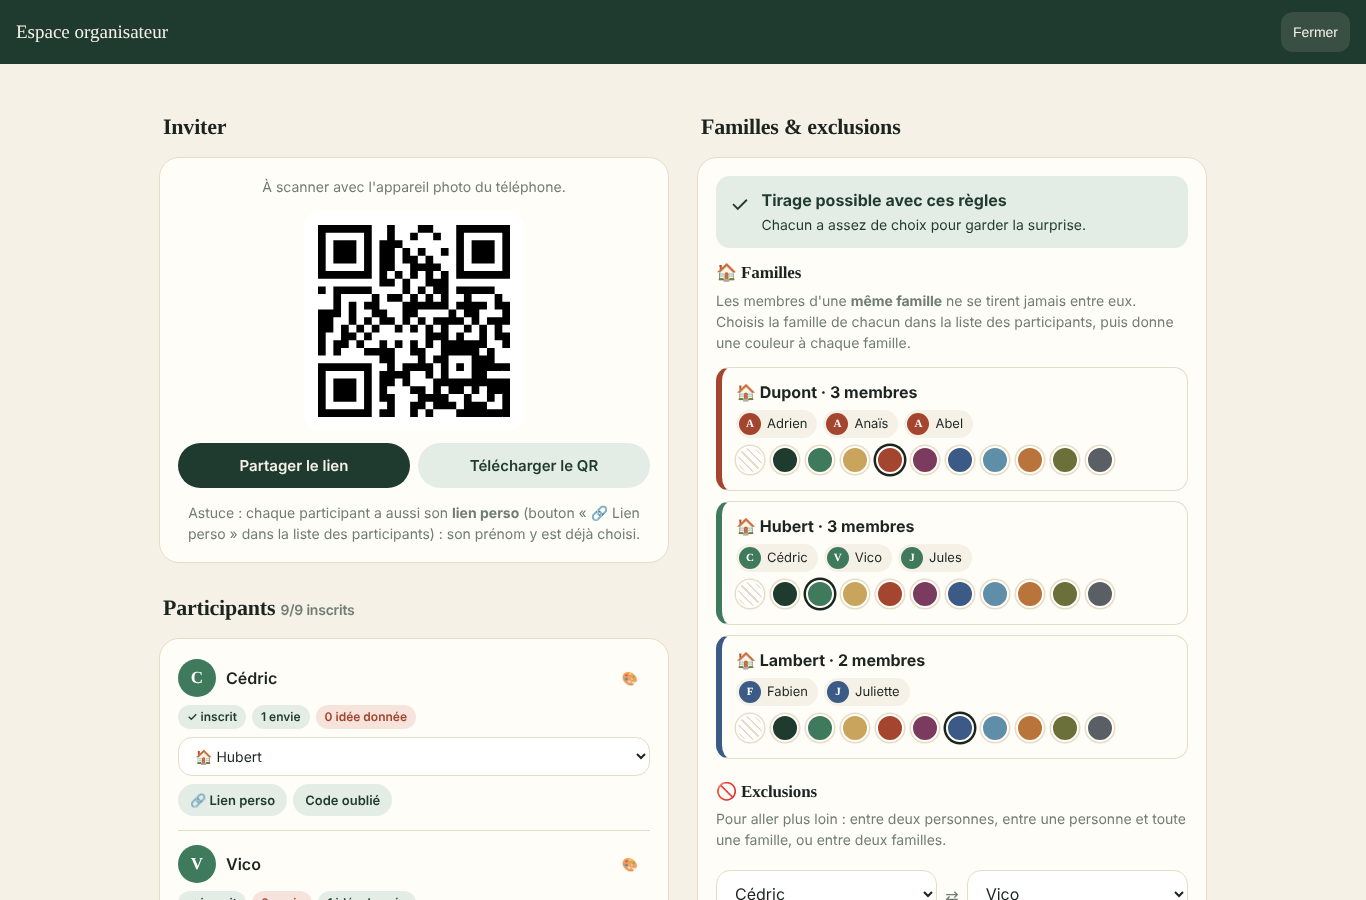
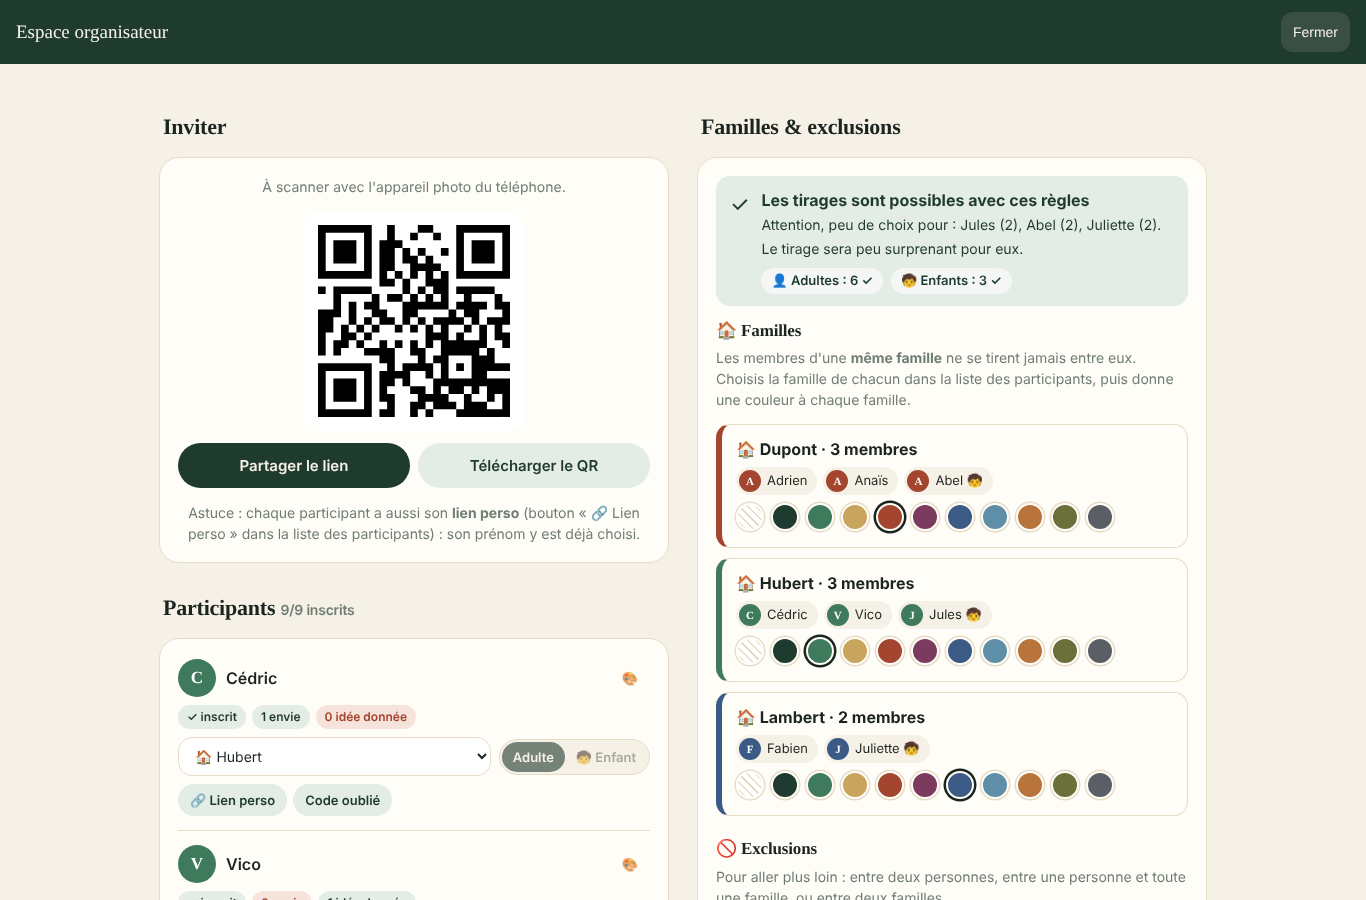
Deux tirages séparés : adultes entre eux, enfants entre eux
- Catégorie adulte/enfant par participant (sélecteur dans l'espace organisateur)
- Un tirage par groupe, avec les mêmes familles et exclusions
- Vérification des règles par groupe (adultes / enfants)

Claude-Session: https://claude.ai/code/session_01XRzXVgtsTn9RLvmfNkSwpe

Changed region(s): [[0.5227, 0.2178, 0.8917, 1.0], [0.369, 0.8089, 0.4612, 0.8711]]

diff --git a/index.html b/index.html
@@ -138,6 +138,14 @@
   .pill.warn { background: var(--danger-soft); color: var(--danger); }
   .person .grid { display: grid; grid-template-columns: 1fr 1fr; gap: 8px; }
   .person select { margin: 0; padding: 9px 12px; font-size: 14px; }
+  .person .line { display: flex; gap: 8px; align-items: center; }
+  .person .line select { flex: 1; min-width: 0; }
+  .seg { display: inline-flex; background: var(--cream); border: 1.5px solid var(--line); border-radius: 999px; padding: 2px; flex: 0 0 auto; }
+  .seg button { border: 0; background: transparent; border-radius: 999px; padding: 7px 11px; font: 600 13px var(--sans); color: var(--muted); cursor: pointer; }
+  .seg button.on { background: var(--fir); color: var(--cream); }
+  .seg button:disabled { cursor: not-allowed; opacity: .6; }
+  .groups { display: flex; gap: 8px; margin-top: 8px; flex-wrap: wrap; }
+  .groups span { background: rgba(255,255,255,.6); border-radius: 999px; padding: 3px 10px; font-size: 13px; font-weight: 600; }
   .person .actions { display: flex; gap: 6px; flex-wrap: wrap; margin-top: 8px; }
   .qr { display: grid; place-items: center; background: #fff; border-radius: 16px; padding: 14px; margin: 6px auto 12px; width: 220px; }
   .qr svg { width: 192px; height: 192px; display: block; }
@@ -394,6 +402,7 @@
           <label for="newName">Ajouter un participant</label>
           <input id="newName" placeholder="Prénom" maxlength="40">
           <input id="newFamily" placeholder="Famille (facultatif)" list="familyList" maxlength="40">
+          <label class="switch" style="margin:0 0 10px"><input id="newChild" type="checkbox"> C'est un enfant (tirage des enfants)</label>
           <button class="btn soft block">Ajouter</button>
         </form>
         <datalist id="familyList"></datalist>
@@ -893,6 +902,14 @@ function familySelect(p, families) {
   };
   return s;
 }
+function ageToggle(p, drawn) {
+  const seg = el('div', { className: 'seg', title: drawn ? 'Annule le tirage pour changer' : 'Tirage des adultes ou des enfants' });
+  [['adulte', 'Adulte'], ['enfant', '🧒 Enfant']].forEach(([v, label]) => {
+    seg.append(el('button', { type: 'button', className: p.age === v ? 'on' : '', textContent: label, disabled: drawn,
+      onclick: () => { if (p.age !== v) adminCall(null, 'adminSetAge', p.name, v); } }));
+  });
+  return seg;
+}
 function renderAdmin(st) {
   adminSt = st;
   renderQR();
@@ -929,7 +946,7 @@ function renderAdmin(st) {
         el('button', { className: 'btn ghost small', textContent: '🎨', title: 'Couleur', onclick: () => swWrap.classList.toggle('hidden') })]),
       meta,
       swWrap,
-      familySelect(p, st.families),
+      el('div', { className: 'line' }, [familySelect(p, st.families), ageToggle(p, st.drawn)]),
       actions,
     ]));
   });
@@ -944,7 +961,7 @@ function renderAdmin(st) {
     const members = st.participants.filter(p => p.family === f);
     const card = el('div', { className: 'fam-card' }, [
       el('b', { textContent: '🏠 ' + f + ' · ' + members.length + ' membre' + (members.length > 1 ? 's' : '') }),
-      el('div', { className: 'members' }, members.map(m => el('span', { className: 'mchip' }, [avatar(m.name, m.color || color), document.createTextNode(m.name)]))),
+      el('div', { className: 'members' }, members.map(m => el('span', { className: 'mchip' }, [avatar(m.name, m.color || color), document.createTextNode(m.name + (m.age === 'enfant' ? ' 🧒' : ''))]))),
       swatches(color, c => adminCall(null, 'adminSetColor', 'family', f, c), 'Sans couleur'),
     ]);
     if (color) card.style.borderLeftColor = color;
@@ -956,10 +973,14 @@ function renderAdmin(st) {
   rs.className = 'rules ' + (st.rules.possible ? 'ok' : 'ko');
   const tight = Object.keys(st.rules.choices).filter(n => st.rules.choices[n] <= 2);
   rs.append(el('span', { style: 'font-size:22px', textContent: st.rules.possible ? '✓' : '⚠' }), el('div', {}, [
-    el('b', { textContent: st.rules.possible ? 'Tirage possible avec ces règles' : (st.participants.length < 3 ? 'Pas encore assez de participants' : 'Tirage impossible avec ces règles') }),
+    el('b', { textContent: st.rules.possible ? 'Les tirages sont possibles avec ces règles' : 'Tirage impossible pour l\'instant' }),
     el('span', { style: 'font-size:14px', textContent: st.rules.possible
       ? (tight.length ? 'Attention, peu de choix pour : ' + tight.map(n => n + ' (' + st.rules.choices[n] + ')').join(', ') + '. Le tirage sera peu surprenant pour eux.' : 'Chacun a assez de choix pour garder la surprise.')
       : st.rules.reason }),
+    el('div', { className: 'groups' }, [['adulte', 'Adultes'], ['enfant', 'Enfants']].map(([k, label]) => {
+      const g = st.rules.groups[k];
+      return el('span', { textContent: (k === 'enfant' ? '🧒 ' : '👤 ') + label + ' : ' + g.count + (g.count === 0 ? ' · pas de tirage' : (g.possible ? ' ✓' : ' ⚠')) });
+    })),
   ]));
 
   // Exclusions
@@ -993,19 +1014,19 @@ function renderAdmin(st) {
   ])])));
 
   // Tirage
-  const all = st.participants.length >= 3 && reg === st.participants.length;
+  const all = st.participants.length >= 2 && reg === st.participants.length;
   $('drawBtn').classList.toggle('hidden', st.drawn);
   $('drawBtn').disabled = !all || !st.rules.possible;
   $('resetDrawBtn').classList.toggle('hidden', !st.drawn);
   $('drawStatus').textContent = st.drawn
     ? '✓ Le tirage a été fait et chacun a été prévenu dans l\'app. Toi non plus, tu ne connais pas les résultats !'
     : !st.rules.possible ? '⚠ Les règles actuelles rendent le tirage impossible : modifie les familles ou exclusions.'
-    : all ? 'Tout le monde est inscrit : tu peux lancer le tirage. Les familles et exclusions seront respectées.'
-          : 'Le tirage sera possible quand tous les participants (3 minimum) auront créé leur compte.';
+    : all ? 'Tout le monde est inscrit : tu peux lancer le tirage. Les adultes tirent un adulte, les enfants un enfant, et les familles et exclusions sont respectées.'
+          : 'Le tirage sera possible quand tous les participants auront créé leur compte.';
 }
 function adminAdd(e) {
   e.preventDefault();
-  adminCall(e.submitter, 'adminAddParticipant', $('newName').value, $('newFamily').value)
+  adminCall(e.submitter, 'adminAddParticipant', $('newName').value, $('newFamily').value, $('newChild').checked ? 'enfant' : 'adulte')
     .then(st => { if (st) { $('newName').value = ''; $('newName').focus(); } });
 }
 function adminAddEx() { adminCall(null, 'adminAddExclusion', $('exA').value, $('exB').value); }
@@ -1026,7 +1047,7 @@ function broadcastWhatsApp() {
   window.open('https://wa.me/?text=' + encodeURIComponent((s ? '*' + s + '*\n' : '') + m + '\n\n' + APP_URL), '_blank', 'noopener');
 }
 function adminDraw() {
-  if (confirm('Lancer le tirage au sort ? Chacun sera prévenu dans l\'app.'))
+  if (confirm('Lancer les tirages au sort (adultes et enfants) ? Chacun sera prévenu dans l\'app.'))
     adminCall($('drawBtn'), 'adminDraw').then(st => st && toast('🎉 Tirage effectué !'));
 }
 function adminResetDraw() {

diff --git a/test/run-tests.js b/test/run-tests.js
@@ -9,7 +9,7 @@ vm.createContext(ctx);
 vm.runInContext(fs.readFileSync(path.join(__dirname, 'gas-mock.js'), 'utf8'), ctx);
 vm.runInContext(fs.readFileSync(path.join(__dirname, '..', 'apps-script', 'Code.gs'), 'utf8') +
   '\nthis.__api = {getPublicState,register,login,logout,getDashboard,addIdea,deleteIdea,markNotificationsRead,adminState,' +
-  'adminAddParticipant,adminRemoveParticipant,adminResetAccount,adminSetFamily,adminSetColor,adminCheckRules,adminAddExclusion,' +
+  'adminAddParticipant,adminRemoveParticipant,adminResetAccount,adminSetFamily,adminSetAge,adminSetColor,adminCheckRules,adminAddExclusion,' +
   'adminRemoveExclusion,adminSaveSettings,adminBroadcast,adminDraw,adminResetDraw,computeDraw_,banned_,doPost,doGet};', ctx);
 const A = ctx.__api;
 const props = ctx.PropertiesService.getScriptProperties();
@@ -189,5 +189,56 @@ A.adminResetDraw(C);
 assert.equal(A.getDashboard(tok.Alice).target, null);
 assert.ok(A.getDashboard(tok.Alice).notifications.items.some(i => /annulé/.test(i.title)));
 ok('annulation du tirage (annoncée dans la cloche)');
+
+// --- Adultes / enfants : deux tirages séparés ---
+// Martin : Alice, Bruno (adultes) + Chloé (enfant) ; Durand : David, Emma (adultes) + Hugo, Inès (enfants)
+// Sans famille : Farid, Gaëlle (adultes) + Jade (enfant)
+['Hugo', 'Inès'].forEach(n => A.adminAddParticipant(C, n, 'Durand', 'enfant'));
+throws(() => A.adminSetAge(C, 'Chloé', 'bébé'), /adulte ou enfant/);
+A.adminSetAge(C, 'Chloé', 'enfant');
+st = A.adminState(C);
+assert.equal(st.participants.find(p => p.name === 'Hugo').age, 'enfant');
+assert.equal(st.participants.find(p => p.name === 'Alice').age, 'adulte');
+assert.deepEqual(plain(st.rules.groups), { adulte: { count: 6, possible: true }, enfant: { count: 3, possible: false } });
+assert.ok(/Tirage des enfants impossible/.test(st.rules.reason));
+ok('enfants : Chloé (Martin) ne peut tirer que Hugo/Inès, mais Hugo et Inès (Durand) ne peuvent tirer que Chloé → impossible détecté');
+A.adminAddParticipant(C, 'Jade', '', 'enfant');
+st = A.adminState(C);
+assert.equal(st.rules.groups.enfant.possible, true);
+assert.equal(st.rules.choices.Chloé, 3); // Hugo, Inès, Jade
+assert.equal(st.rules.choices.Hugo, 2);  // Chloé, Jade (pas Inès : même famille)
+assert.equal(st.rules.choices.Alice, 4); // David, Emma, Farid, Gaëlle (pas d'enfants)
+ok('choix comptés dans son propre groupe uniquement');
+
+A.adminAddExclusion(C, 'Jade', 'F:Durand'); // Hugo, Inès et Jade ne peuvent plus tirer que Chloé
+assert.equal(A.adminState(C).rules.possible, false);
+A.adminRemoveExclusion(C, 'Jade', 'F:Durand');
+ok('les exclusions (famille entière) s\'appliquent aussi au tirage des enfants');
+
+const kids = ['Chloé', 'Hugo', 'Inès', 'Jade'];
+['Hugo', 'Inès', 'Jade'].forEach(n => { tok[n] = A.register(n, '1234').token; });
+A.adminDraw(C);
+const fam2 = { Alice: 'Martin', Bruno: 'Martin', 'Chloé': 'Martin', David: 'Durand', Emma: 'Durand', Hugo: 'Durand', 'Inès': 'Durand', Farid: '', 'Gaëlle': '', Jade: '' };
+const recv = new Set();
+Object.keys(fam2).forEach(g => {
+  const t = A.getDashboard(tok[g]).target.name;
+  recv.add(t);
+  assert.equal(kids.includes(g), kids.includes(t), g + ' → ' + t + ' : même groupe');
+  assert.ok(g !== t && !(fam2[g] && fam2[g] === fam2[t]), g + ' → ' + t + ' : famille');
+});
+assert.equal(recv.size, Object.keys(fam2).length);
+throws(() => A.adminSetAge(C, 'Jade', 'adulte'), /Annule le tirage/);
+A.adminResetDraw(C);
+ok('tirage : adultes → adultes, enfants → enfants, familles respectées, chacun reçoit 1 cadeau');
+
+for (let k = 0; k < 200; k++) {
+  const ps2 = Object.keys(fam2).map(n => ({ name: n, family: fam2[n], age: kids.includes(n) ? 'enfant' : '' }));
+  const ban = A.banned_(ps2, [{ a: 'Farid', b: 'F:Durand' }]);
+  const a = A.computeDraw_(ps2.filter(p => !p.age).map(p => p.name), ban);
+  const e = A.computeDraw_(kids, ban);
+  assert.ok(a && e);
+  a.forEach(x => assert.ok(!(x.giver === 'Farid' && fam2[x.receiver] === 'Durand') && !(fam2[x.giver] === 'Durand' && x.receiver === 'Farid')));
+}
+ok('200 tirages adultes + enfants valides avec exclusion personne ⇄ famille');
 
 console.log('\n' + passed + ' vérifications réussies');

diff --git a/test/ui-test.js b/test/ui-test.js
@@ -8,13 +8,14 @@ const ctx = { console, Buffer, Math, JSON, Date, Set, Object, String, Number, Ar
 vm.runInContext(fs.readFileSync(path.join(__dirname, 'gas-mock.js'), 'utf8'), ctx);
 ctx.PropertiesService.getScriptProperties().setProperty('ADMIN_CODE', 'sapin-2026');
 vm.runInContext(fs.readFileSync(path.join(root, 'apps-script', 'Code.gs'), 'utf8') +
-  '\nthis.G={doPost,adminAddParticipant,adminSetColor,adminSaveSettings,register,addIdea,login,getDashboard};', ctx);
+  '\nthis.G={doPost,adminAddParticipant,adminSetAge,adminSetColor,adminSaveSettings,register,addIdea,login,getDashboard};', ctx);
 const G = ctx.G, C = 'sapin-2026';
 const people = [['Cédric', 'Hubert'], ['Vico', 'Hubert'], ['Jules', 'Hubert'], ['Adrien', 'Dupont'], ['Anaïs', 'Dupont'],
   ['Abel', 'Dupont'], ['Fabien', 'Lambert'], ['Juliette', 'Lambert'], ['Mamoune', '']];
 people.forEach(([n, f]) => G.adminAddParticipant(C, n, f));
 G.adminSetColor(C, 'family', 'Hubert', '#3f7a5c'); G.adminSetColor(C, 'family', 'Dupont', '#a4452f'); G.adminSetColor(C, 'family', 'Lambert', '#3b5b86');
 G.adminSetColor(C, 'member', 'Mamoune', '#c9a45c');
+['Jules', 'Abel'].forEach(n => G.adminSetAge(C, n, 'enfant'));
 const d5 = new Date(Date.now() + 12 * 86400000);
 G.adminSaveSettings(C, { eventDate: d5.toISOString().slice(0, 10), budget: '30 €' });
 const tk = {}; people.slice(1).forEach(([n]) => tk[n] = G.register(n, '1111').token);
@@ -66,6 +67,8 @@ const srv = http.createServer((req, res) => {
   await p.waitForSelector('#adminPanel:not(.hidden)');
   await p.selectOption('#exA', 'Mamoune'); await p.selectOption('#exB', 'F:Lambert'); await p.click('text=Ajouter la règle');
   await p.waitForSelector('#exList >> text=Lambert');
+  await p.locator('.person:has-text("Juliette") .seg button:has-text("Enfant")').click();
+  await p.waitForSelector('.groups >> text=Enfants : 3');
   await p.locator('.person .avatar.click').nth(8).click();
   await p.locator('h2:has-text("Familles")').scrollIntoViewIfNeeded();
   await shot('5-familles-regles');

diff --git a/sw.js b/sw.js
@@ -1,6 +1,6 @@
 // Service worker : rend l'application installable et rapide à ouvrir.
 // Les données (API Google) ne sont jamais mises en cache : elles restent toujours à jour.
-const CACHE = 'santa-familia-v6';
+const CACHE = 'santa-familia-v7';
 const SHELL = ['./', 'index.html', 'config.js?v=6', 'manifest.webmanifest', 'icons/icon-192.png', 'icons/apple-touch-icon.png', 'vendor/qrcode.js'];
 
 self.addEventListener('install', e => {
